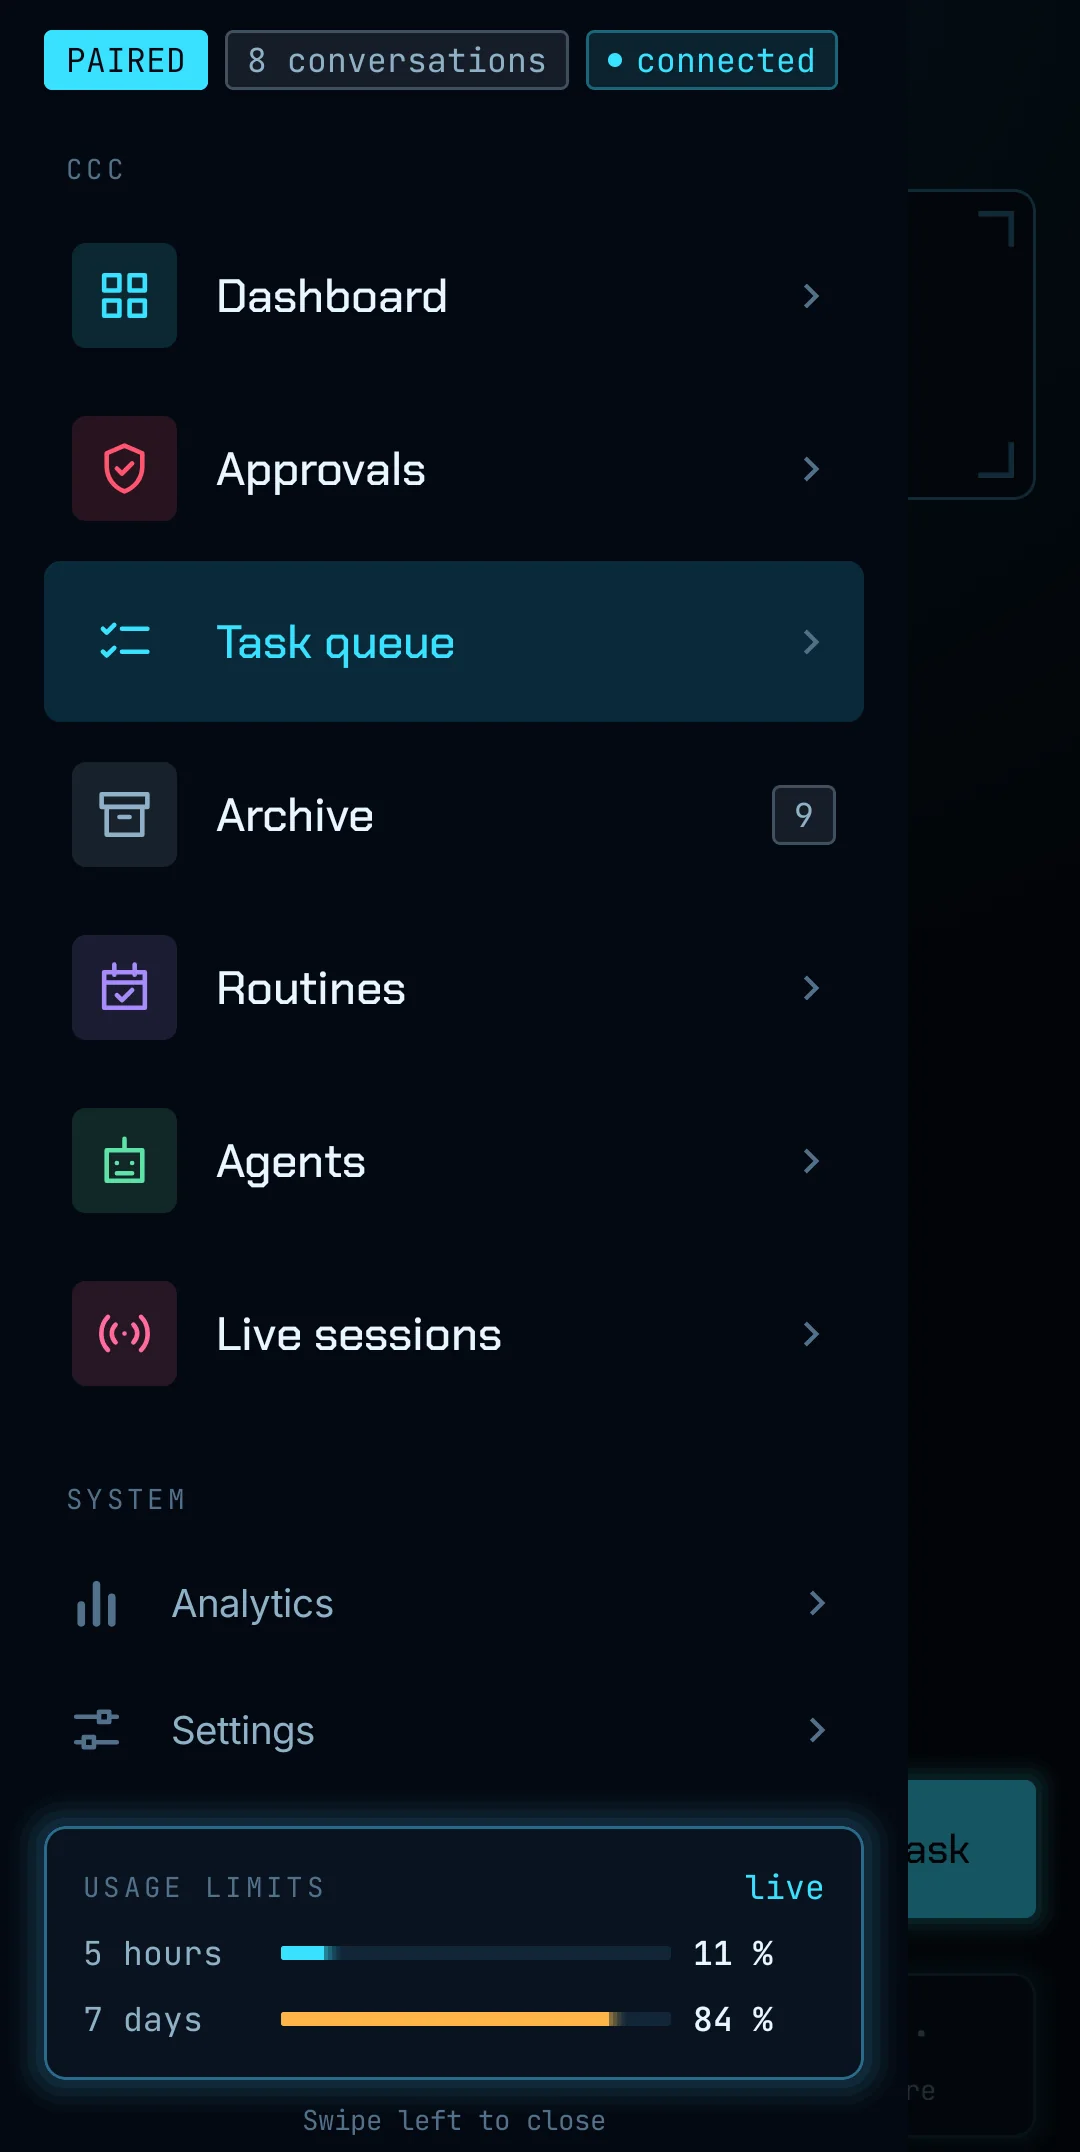
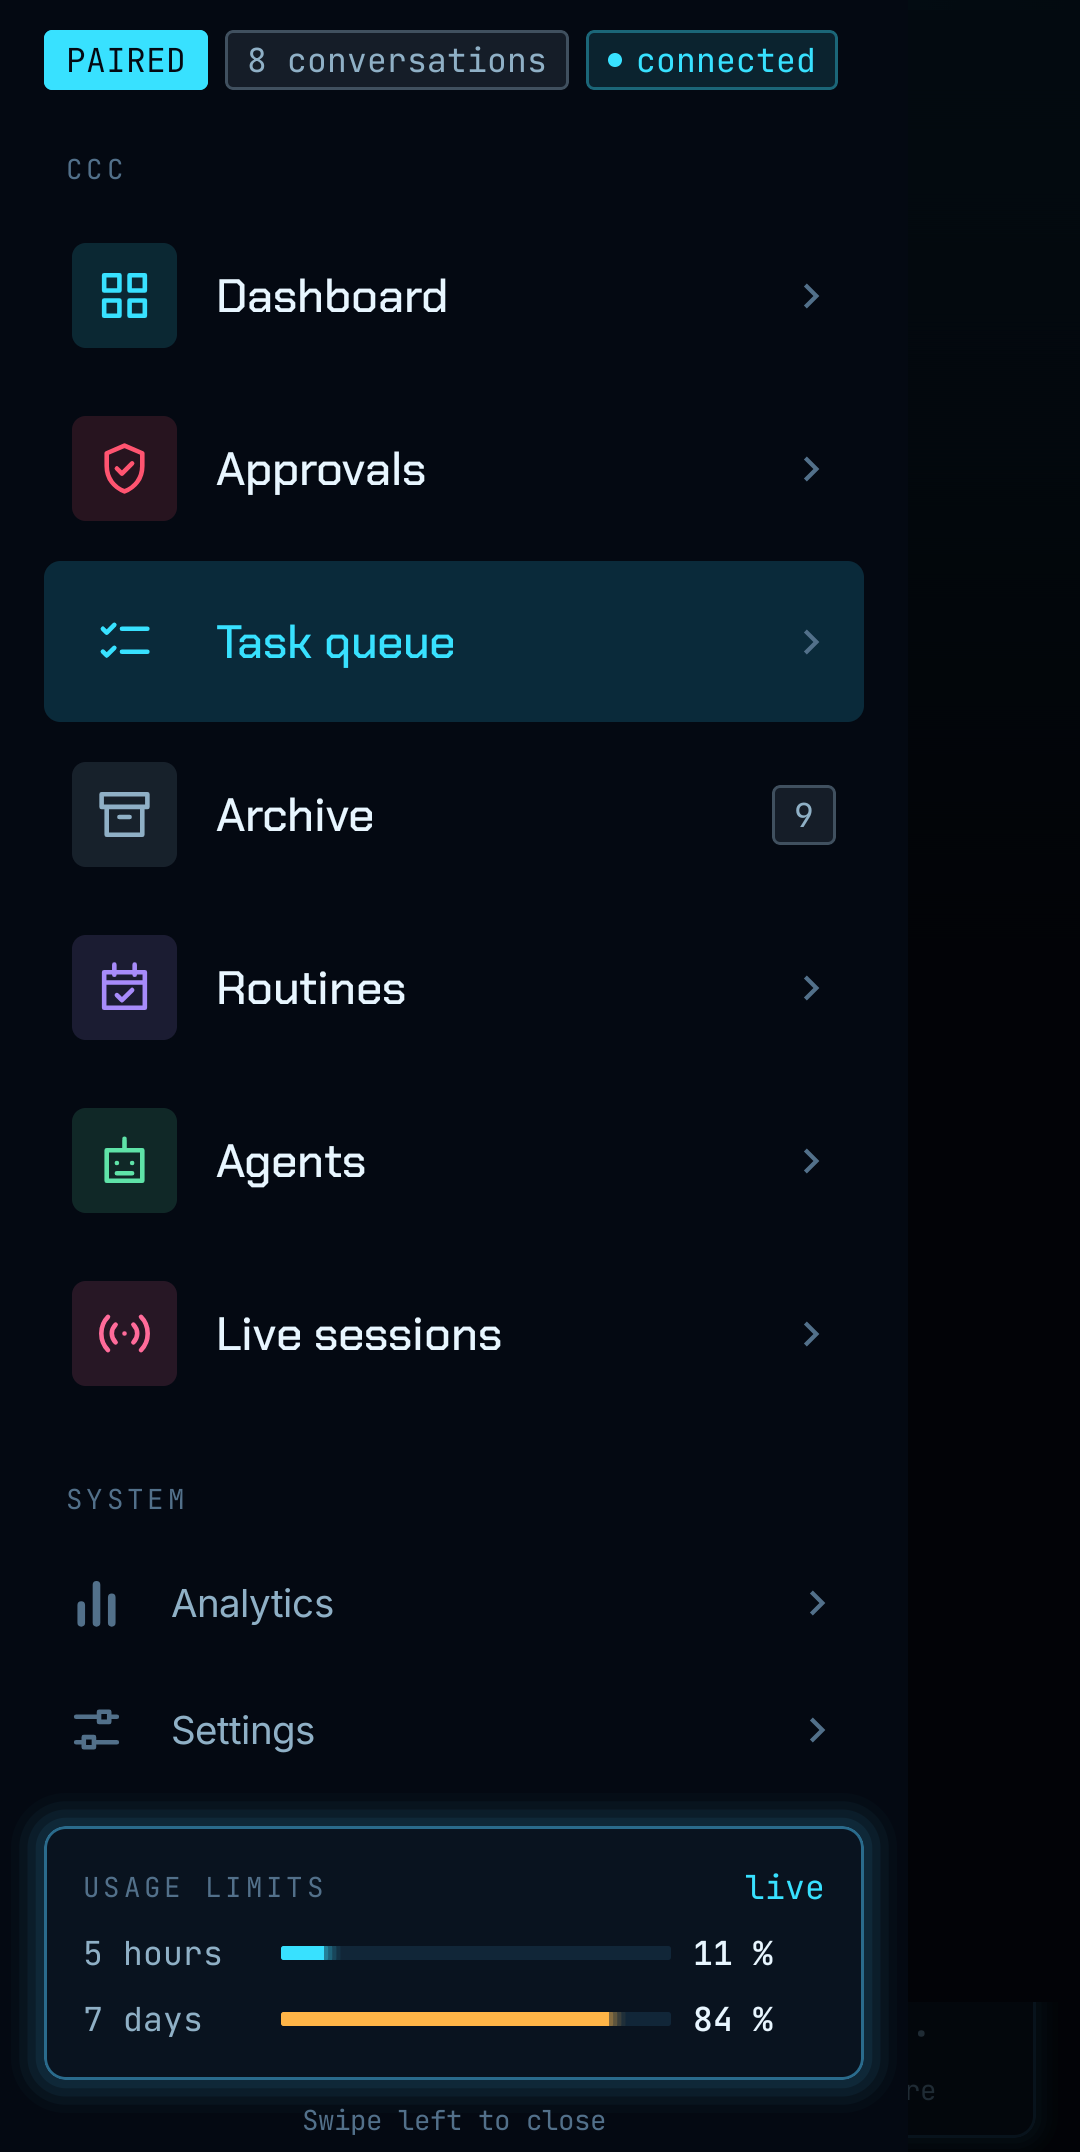
fix(web): náhled ccc Android na kartě ze tří obrazovek, čisté menu (#20)
Karta v /apps/ ukazovala jen oříznutou hlavičku dashboardu. Nově je na
ní konverzace, dashboard a menu vedle sebe. Z menu zmizel ztmavený
obsah za výsuvným panelem.

Claude-Session: https://claude.ai/code/session_01SVGUkj7oN34QWw7jvsNm29

Changed region(s): [[0.825, 0.8095, 0.9778, 0.9029], [0.9167, 0.2179, 0.9472, 0.2491], [0.9167, 0.0934, 0.9472, 0.1245]]

diff --git a/scripts/optimize-images.py b/scripts/optimize-images.py
@@ -14,7 +14,7 @@ image (the same crop the card shows), at most 720 px wide.
 import os
 import sys
 
-from PIL import Image
+from PIL import Image, ImageDraw
 
 ROOT = os.path.join(os.path.dirname(os.path.abspath(__file__)), '..', 'assets', 'apps')
 
@@ -24,7 +24,6 @@ THUMBS = {
     'repo-doctor': 'triage',
     'sway-desktop-stats': 'widget',
     'ccc': 'conversations',
-    'ccc-android': 'dashboard',
     'displays': 'screenshot',
     'sgc-screensaver': 'screenshot',
     'wpview': 'viewer',
@@ -61,6 +60,23 @@ def thumb(folder, name):
     print(f'{folder}/card.webp: {w}x{h}, {os.path.getsize(out) // 1024} KB')
 
 
+def phones_thumb(folder, names):
+    """Card for a phone app: portrait screenshots side by side on a dark 16:9 canvas, cut off at the bottom."""
+    W, H, w, gap, top = 720, 405, 200, 18, 26
+    canvas = Image.new('RGB', (W, H), (10, 6, 20))
+    x = (W - (len(names) * w + (len(names) - 1) * gap)) // 2
+    for n in names:
+        im = Image.open(os.path.join(ROOT, folder, n + '.webp')).convert('RGB')
+        im = im.resize((w, round(im.height * w / im.width)), Image.LANCZOS)
+        mask = Image.new('L', im.size, 0)
+        ImageDraw.Draw(mask).rounded_rectangle((0, 0, im.width - 1, im.height - 1), radius=18, fill=255)
+        canvas.paste(im, (x, top), mask)
+        x += w + gap
+    out = os.path.join(ROOT, folder, 'card.webp')
+    canvas.save(out, 'WEBP', quality=82, method=6)
+    print(f'{folder}/card.webp: {W}x{H}, {os.path.getsize(out) // 1024} KB')
+
+
 def main():
     keep = '--keep' in sys.argv
     for dirpath, _, files in os.walk(ROOT):
@@ -69,6 +85,7 @@ def main():
                 to_webp(os.path.join(dirpath, f), keep)
     for folder, name in THUMBS.items():
         thumb(folder, name)
+    phones_thumb('ccc-android', ['conversations', 'dashboard', 'menu'])
 
 
 if __name__ == '__main__':
